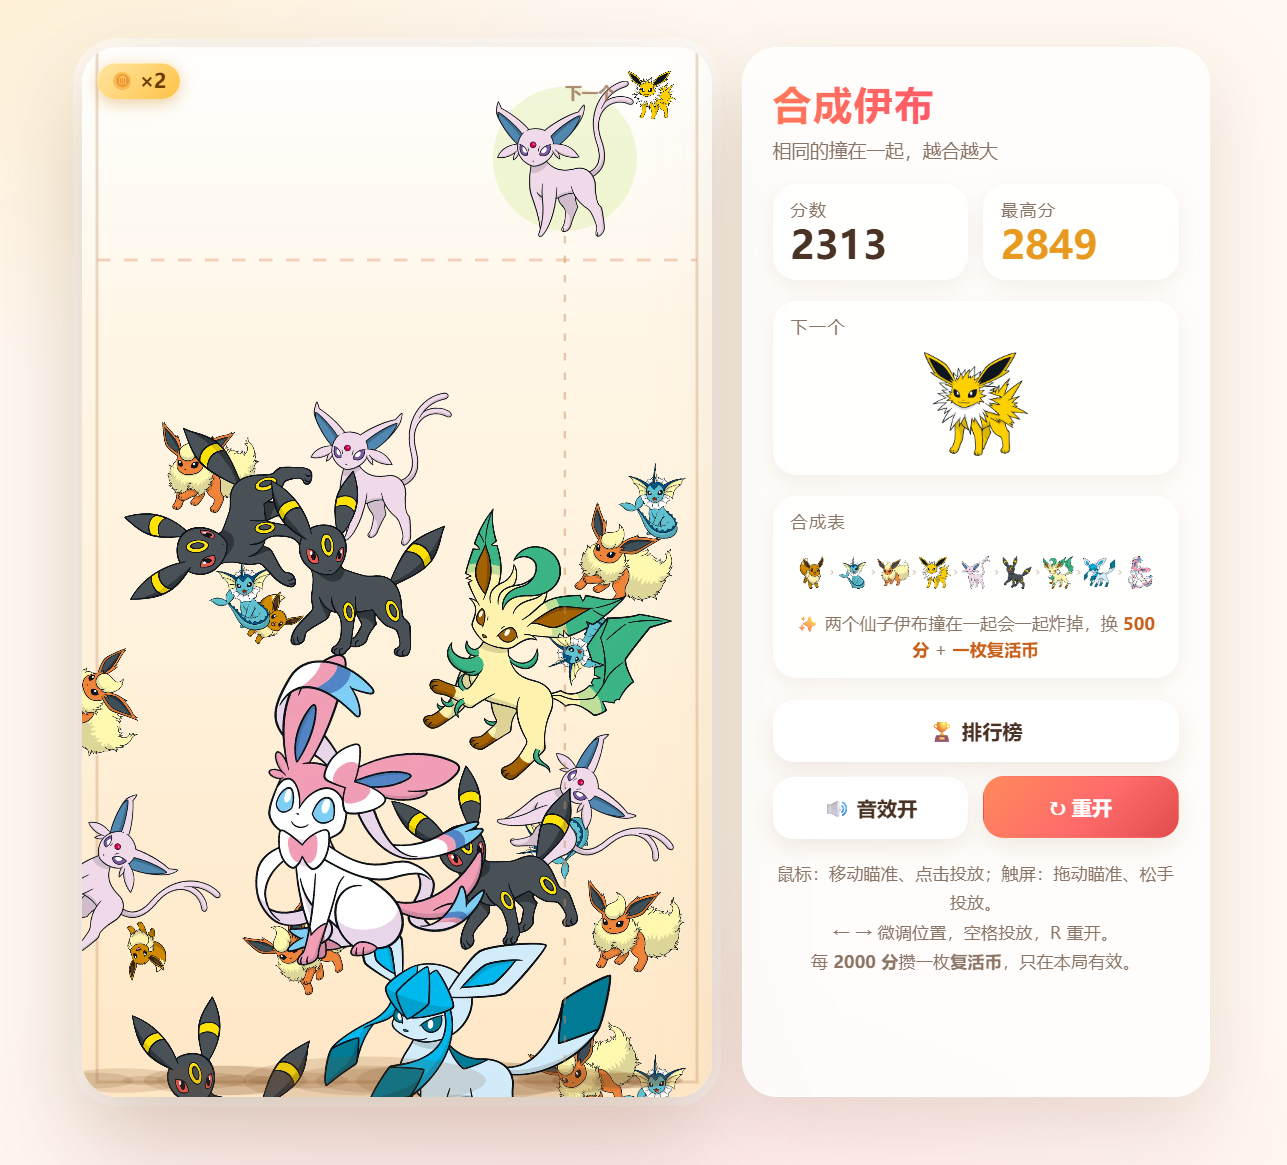
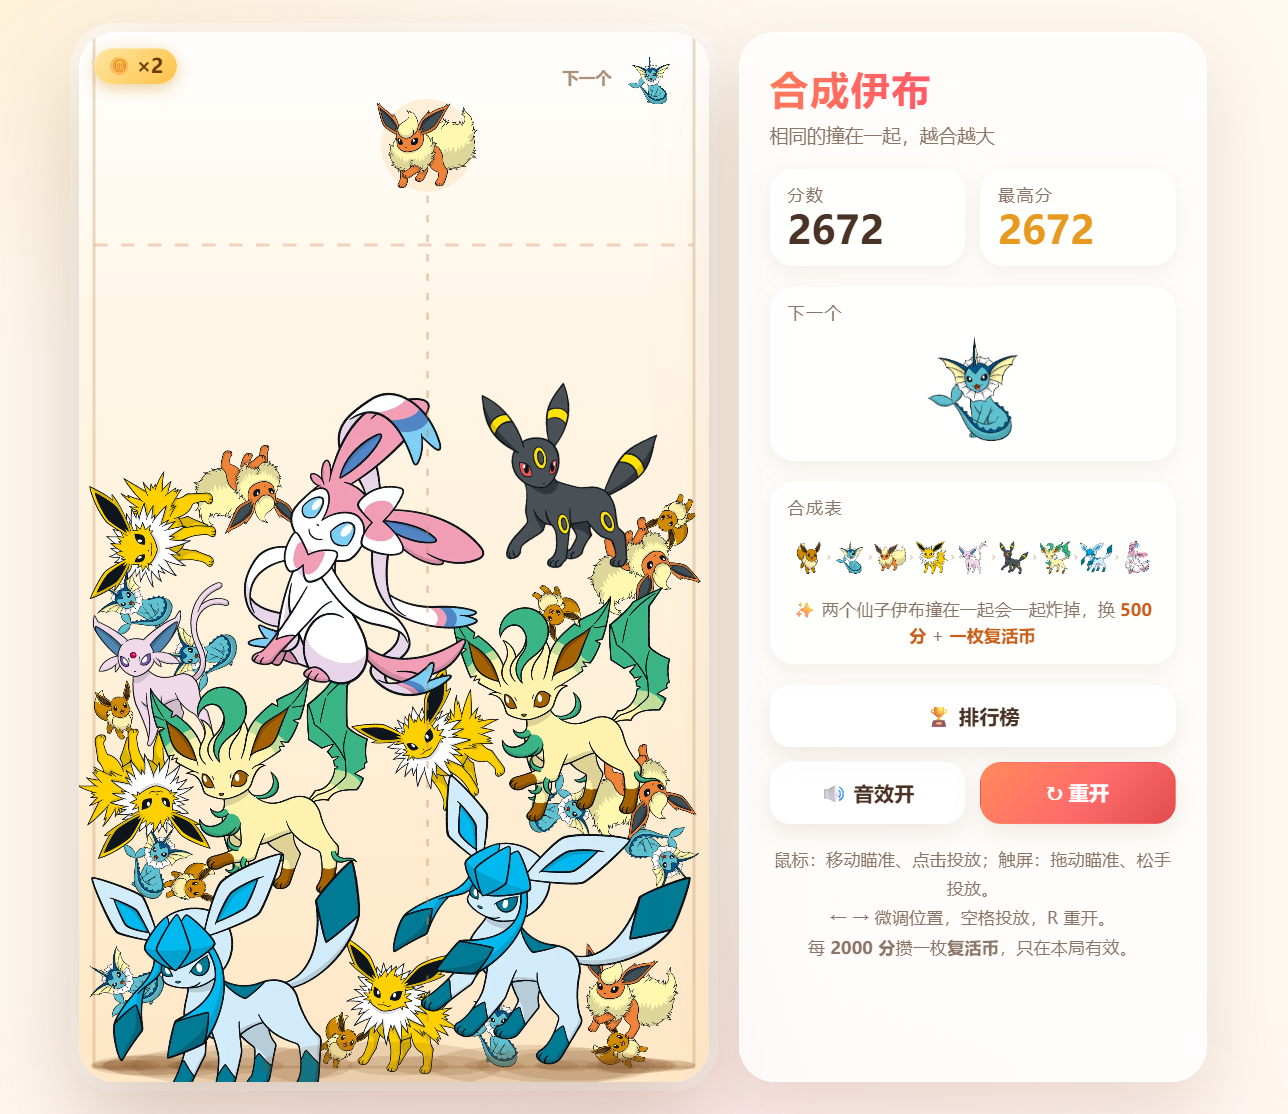
fix: 重新生成碰撞轮廓以适配伊布贴图
build_parts.py 改为读取带透明通道的 .webp，画布尺寸按实际图片计算（原 .png 无 alpha，导致轮廓被识别成整块白底矩形）；调参 --grid 2 --min-fill 0.8 --max-parts 22，IoU 从 0.35 提升到 0.73~0.92；同步重生成 blur.js，移除 drawFruit 里的调试日志，粒子色改为各伊布体色

diff --git a/assets/fruits/blur.js b/assets/fruits/blur.js
@@ -1,7 +1,7 @@
 /* 自动生成，别手改 —— 改缩略图请跑 tools/make_blur.py */
 /* 贴图还没到位时画的极模糊占位（内联 data URL，零额外请求） */
 window.FRUIT_BLUR = {
[2 lines of base64/hex data omitted]
   cell: 32,
   cols: 9
 };

diff --git a/assets/fruits/parts.js b/assets/fruits/parts.js
@@ -1,3 +1,3 @@
 /* 自动生成，请勿手改 —— 由 tools/build_parts.py 生成
    parts: [ox, oy, s]，单位是「以 r 为 1」；rb: 碰撞包围圆半径（同样以 r 为单位） */
-window.SUIKA_PARTS = [{"parts":[[-1.087,-1.087,0.287],[-0.577,-1.087,0.287],[-0.068,-1.087,0.287],[0.442,-1.087,0.287],[0.951,-1.087,0.287],[-1.087,-0.577,0.287],[-0.577,-0.577,0.287],[-0.068,-0.577,0.287],[0.442,-0.577,0.287]],"rb":1.825},{"parts":[[-1.087,-1.087,0.287],[-0.577,-1.087,0.287],[-0.068,-1.087,0.287],[0.442,-1.087,0.287],[0.951,-1.087,0.287],[-1.087,-0.577,0.287],[-0.577,-0.577,0.287],[-0.068,-0.577,0.287],[0.442,-0.577,0.287]],"rb":1.825},{"parts":[[-1.087,-1.087,0.287],[-0.577,-1.087,0.287],[-0.068,-1.087,0.287],[0.442,-1.087,0.287],[0.951,-1.087,0.287],[-1.087,-0.577,0.287],[-0.577,-0.577,0.287],[-0.068,-0.577,0.287],[0.442,-0.577,0.287]],"rb":1.825},{"parts":[[-1.087,-1.087,0.287],[-0.577,-1.087,0.287],[-0.068,-1.087,0.287],[0.442,-1.087,0.287],[0.951,-1.087,0.287],[-1.087,-0.577,0.287],[-0.577,-0.577,0.287],[-0.068,-0.577,0.287],[0.442,-0.577,0.287]],"rb":1.825},{"parts":[[-1.087,-1.087,0.287],[-0.577,-1.087,0.287],[-0.068,-1.087,0.287],[0.442,-1.087,0.287],[0.951,-1.087,0.287],[-1.087,-0.577,0.287],[-0.577,-0.577,0.287],[-0.068,-0.577,0.287],[0.442,-0.577,0.287]],"rb":1.825},{"parts":[[-1.087,-1.087,0.287],[-0.577,-1.087,0.287],[-0.068,-1.087,0.287],[0.442,-1.087,0.287],[0.951,-1.087,0.287],[-1.087,-0.577,0.287],[-0.577,-0.577,0.287],[-0.068,-0.577,0.287],[0.442,-0.577,0.287]],"rb":1.825},{"parts":[[-1.087,-1.087,0.287],[-0.577,-1.087,0.287],[-0.068,-1.087,0.287],[0.442,-1.087,0.287],[0.951,-1.087,0.287],[-1.087,-0.577,0.287],[-0.577,-0.577,0.287],[-0.068,-0.577,0.287],[0.442,-0.577,0.287]],"rb":1.825},{"parts":[[-1.087,-1.087,0.287],[-0.577,-1.087,0.287],[-0.068,-1.087,0.287],[0.442,-1.087,0.287],[0.951,-1.087,0.287],[-1.087,-0.577,0.287],[-0.577,-0.577,0.287],[-0.068,-0.577,0.287],[0.442,-0.577,0.287]],"rb":1.825},{"parts":[[-1.087,-1.087,0.287],[-0.577,-1.087,0.287],[-0.068,-1.087,0.287],[0.442,-1.087,0.287],[0.951,-1.087,0.287],[-1.087,-0.577,0.287],[-0.577,-0.577,0.287],[-0.068,-0.577,0.287],[0.442,-0.577,0.287]],"rb":1.825}];
+window.SUIKA_PARTS = [{"parts":[[0.025,0.054,0.538],[-0.409,-0.268,0.384],[0.225,0.554,0.219],[-0.446,-0.652,0.21],[-0.04,0.591,0.199],[-0.351,0.442,0.154],[0.399,-0.337,0.15],[0.58,-0.551,0.147],[0.649,-0.688,0.13],[-0.098,0.783,0.127],[0.293,0.768,0.12],[-0.083,0.909,0.112],[0.446,0.391,0.111],[0.333,0.884,0.11],[0.275,-0.424,0.109],[-0.442,0.569,0.105],[-0.377,-0.851,0.101],[0.688,-0.815,0.101],[0.533,-0.409,0.091],[-0.645,-0.572,0.089],[-0.029,1.007,0.084],[0.174,-0.467,0.083]],"rb":1.168},{"parts":[[0.109,-0.21,0.439],[0.348,0.681,0.41],[0.185,0.304,0.245],[0.504,-0.406,0.176],[-0.293,-0.395,0.151],[-0.333,0.069,0.128],[0.634,-0.525,0.127],[-0.645,0.243,0.12],[-0.42,-0.489,0.111],[-0.065,0.692,0.111],[0.743,-0.591,0.094],[-0.525,0.268,0.087],[-0.761,0.207,0.083],[-0.141,0.609,0.08],[-0.377,0.192,0.08],[-0.518,-0.551,0.079],[0.025,0.938,0.077],[-0.185,0.536,0.075],[0.725,0.844,0.074],[0.551,-0.236,0.07],[0.688,0.913,0.067],[-0.047,0.804,0.061]],"rb":1.21},{"parts":[[0.348,0.011,0.533],[-0.243,0.043,0.513],[0.054,-0.435,0.229],[0.804,-0.272,0.214],[-0.431,0.522,0.174],[-0.804,-0.504,0.164],[0.88,-0.011,0.149],[-0.341,-0.46,0.145],[0.185,-0.627,0.138],[0.866,0.138,0.12],[0.319,0.543,0.119],[-0.609,-0.319,0.117],[-0.105,0.54,0.117],[-0.909,-0.63,0.116],[-0.478,-0.413,0.108],[-0.634,0.377,0.108],[-0.721,-0.362,0.101],[0.319,0.667,0.097],[0.87,-0.478,0.096],[-0.529,0.808,0.096],[0.822,0.254,0.096],[-0.707,0.264,0.096]],"rb":1.223},{"parts":[[-0.025,0.076,0.503],[0.478,0.047,0.328],[-0.333,-0.322,0.285],[0.036,-0.424,0.209],[0.116,0.572,0.194],[0.442,-0.732,0.188],[0.442,0.373,0.185],[-0.728,-0.699,0.169],[0.286,-0.623,0.164],[-0.507,-0.072,0.157],[0.518,0.543,0.141],[0.58,-0.866,0.133],[0.105,0.768,0.13],[-0.145,-0.536,0.128],[-0.841,-0.83,0.128],[-0.605,-0.58,0.128],[-0.337,0.475,0.11],[0.598,0.663,0.099],[-0.348,0.587,0.094],[-0.931,-0.92,0.092],[-0.355,0.681,0.091],[0.076,0.899,0.091]],"rb":1.401},{"parts":[[-0.236,0.341,0.262],[-0.409,-0.167,0.26],[0.025,0.373,0.228],[0.246,0.315,0.178],[-0.283,0.601,0.159],[-0.178,-0.29,0.156],[0.29,0.489,0.147],[-0.058,-0.395,0.142],[-0.645,-0.373,0.137],[-0.351,0.105,0.13],[-0.75,-0.486,0.121],[0.058,-0.493,0.116],[-0.275,0.761,0.116],[0.054,0.601,0.109],[0.366,0.616,0.1],[-0.833,-0.576,0.094],[0.435,0.717,0.089],[-0.116,-0.145,0.086],[0.08,0.71,0.085],[-0.283,0.877,0.082],[0.152,-0.569,0.08],[-0.004,-0.116,0.08]],"rb":1.107},{"parts":[[-0.442,-0.221,0.279],[-0.268,0.283,0.276],[0.011,0.37,0.254],[0.243,0.475,0.178],[0.656,-0.069,0.161],[-0.431,0.058,0.159],[-0.801,-0.688,0.142],[0.536,0.043,0.135],[0.254,0.293,0.135],[-0.13,-0.757,0.134],[0.772,-0.185,0.132],[-0.721,-0.565,0.128],[0.315,0.641,0.121],[-0.159,-0.623,0.12],[-0.493,0.446,0.118],[-0.866,-0.819,0.109],[-0.217,0.554,0.104],[-0.558,0.547,0.099],[-0.091,-0.888,0.097],[0.011,0.627,0.096],[0.406,0.739,0.094],[0.435,0.134,0.093]],"rb":1.3},{"parts":[[-0.355,-0.228,0.322],[-0.174,0.341,0.268],[0.094,0.377,0.214],[0.33,0.319,0.206],[0.656,-0.659,0.199],[0.159,-0.587,0.192],[-0.072,-0.391,0.188],[-0.786,-0.496,0.173],[0.851,-0.319,0.161],[-0.659,-0.344,0.15],[-0.254,-0.536,0.148],[-0.264,0.083,0.143],[-0.239,0.601,0.142],[0.732,-0.475,0.141],[0.453,0.486,0.138],[0.301,-0.739,0.138],[-0.246,-0.79,0.132],[0.786,-0.033,0.126],[0.591,-0.471,0.123],[0.826,-0.159,0.12],[0.746,-0.837,0.118],[-0.344,-0.884,0.105]],"rb":1.239},{"parts":[[-0.341,-0.308,0.333],[-0.163,0.221,0.26],[0.094,0.268,0.228],[0.12,-0.692,0.21],[0.322,0.29,0.19],[-0.826,-0.674,0.184],[0.902,-0.522,0.183],[-0.431,0.391,0.164],[0.859,-0.341,0.159],[0.283,-0.83,0.138],[-0.04,-0.554,0.138],[0.438,0.442,0.128],[0.783,-0.199,0.124],[-0.928,0.261,0.123],[0.986,-0.685,0.114],[-0.942,-0.819,0.112],[-0.127,0.482,0.112],[-0.714,-0.525,0.105],[0.536,0.572,0.103],[-0.123,0.594,0.103],[1.08,-0.62,0.103],[0.156,0.525,0.096]],"rb":1.36},{"parts":[[-0.221,0.692,0.297],[-0.377,-0.051,0.29],[-0.348,-0.736,0.215],[-0.449,0.236,0.194],[-0.098,-0.138,0.19],[-0.351,0.424,0.181],[-0.196,-0.888,0.17],[0.312,-0.174,0.17],[0.033,0.848,0.164],[-0.38,-0.514,0.156],[0.094,-0.163,0.155],[0.482,-0.196,0.13],[0.54,0.783,0.129],[-0.428,0.906,0.118],[-0.449,-0.333,0.107],[0.362,0.754,0.098],[-0.091,0.96,0.098],[-0.094,-0.33,0.096],[0.601,0.301,0.086],[-0.188,-0.308,0.08],[0.685,0.272,0.08],[-0.025,-0.891,0.079]],"rb":1.12}];

diff --git a/game.js b/game.js
@@ -52,23 +52,23 @@
 
   const FRUITS = [
     { name: '伊布',   r: 17,  c1: '#c084f5', c2: '#7a3fb0', line: 'rgba(74,26,120,.35)',
-      file: 'assets/fruits/01-eevee.webp',     pc1: '#e9c466', pc2: '#b8903a' },
+      file: 'assets/fruits/01-eevee.webp',     pc1: '#e2ab34', pc2: '#674d14' },
     { name: '水伊布',   r: 23,  c1: '#ff8a99', c2: '#c62346', line: 'rgba(120,10,40,.35)',
-      file: 'assets/fruits/02-vaporeon.webp',    pc1: '#ffe684', pc2: '#d8b44f' },
+      file: 'assets/fruits/02-vaporeon.webp',    pc1: '#88d4d9', pc2: '#3d6164' },
     { name: '火伊布',   r: 31,  c1: '#ffc06a', c2: '#e0741a', line: 'rgba(140,62,0,.32)',
-      file: 'assets/fruits/03-flareon.webp',    pc1: '#fdd865', pc2: '#cfa63f' },
+      file: 'assets/fruits/03-flareon.webp',    pc1: '#ffd98c', pc2: '#796640' },
     { name: '雷伊布',   r: 39,  c1: '#fff285', c2: '#e0b000', line: 'rgba(140,110,0,.32)',
-      file: 'assets/fruits/04-jolteon.webp',     pc1: '#f6cd63', pc2: '#c9a040' },
+      file: 'assets/fruits/04-jolteon.webp',     pc1: '#f4d642', pc2: '#70611a' },
     { name: '太阳伊布', r: 48,  c1: '#b9e05a', c2: '#5d8c1c', line: 'rgba(60,90,10,.32)',
-      file: 'assets/fruits/05-espeon.webp',      pc1: '#c4a559', pc2: '#94793c' },
+      file: 'assets/fruits/05-espeon.webp',      pc1: '#fae8ff', pc2: '#736a75' },
     { name: '月亮伊布',   r: 58,  c1: '#ff8a66', c2: '#c62f28', line: 'rgba(120,20,10,.32)',
-      file: 'assets/fruits/06-umbreon.webp',    pc1: '#fbd75a', pc2: '#cba63c' },
+      file: 'assets/fruits/06-umbreon.webp',    pc1: '#656a59', pc2: '#2e3028' },
     { name: '叶伊布',   r: 69,  c1: '#ffd0d0', c2: '#ea7f93', line: 'rgba(160,60,80,.3)',
-      file: 'assets/fruits/07-leafeon.webp',     pc1: '#f7c45a', pc2: '#c99a3e' },
+      file: 'assets/fruits/07-leafeon.webp',     pc1: '#b8e297', pc2: '#536743' },
     { name: '冰伊布',   r: 81,  c1: '#ffe07a', c2: '#c88a12', line: 'rgba(130,80,0,.32)',
-      file: 'assets/fruits/08-glaceon.webp', pc1: '#ffd37b', pc2: '#d1a252' },
+      file: 'assets/fruits/08-glaceon.webp', pc1: '#76d6f4', pc2: '#336170' },
     { name: '仙子伊布',   r: 94,  c1: '#f0e2c6', c2: '#9b7b4f', line: 'rgba(90,64,32,.35)',
-      file: 'assets/fruits/09-sylveon.webp',   pc1: '#ffd771', pc2: '#d3a94e' }
+      file: 'assets/fruits/09-sylveon.webp',   pc1: '#fae0f6', pc2: '#736671' }
 
   ];
 
@@ -827,7 +827,6 @@
 
     /* —— 贴图模式：主体直接画 PNG，画布边长按 ASSET_FILL 换算，保证视觉大小 = 物理直径 —— */
     if (f.img) {
-      console.log("图片加载成功：", f.name);
       const box = (r * 2) / ASSET_FILL;
       c.drawImage(f.img, -box / 2, -box / 2, box, box);
       c.restore();

diff --git a/tools/build_parts.py b/tools/build_parts.py
@@ -36,16 +36,20 @@ TIERS = [
     "sylveon"
 ]
 
-CANVAS = 512
-FILL = 0.92                      # 与 normalize_assets.py 保持一致
+CANVAS = 512                      # 仅作默认值，实际以读到的图片尺寸为准
+FILL = 0.92                      # 与 normalize_assets.py / game.js ASSET_FILL 保持一致
 SCALE = CANVAS * FILL / 2.0      # 画布像素 → r 单位的换算系数
 
 
 def find_sprite(i):
-    p = os.path.join(OUT, "%02d-%s.png" % (i, TIERS[i - 1]))
-    print("查找：", p)
-    print("是否存在：", os.path.exists(p))
-    return p if os.path.exists(p) else None
+    # 游戏实际加载的是 .webp（带透明通道）；.png 多半是无透明的白底图，不能用来算轮廓
+    for ext in (".webp", ".png"):
+        p = os.path.join(OUT, "%02d-%s%s" % (i, TIERS[i - 1], ext))
+        print("查找：", p)
+        print("是否存在：", os.path.exists(p))
+        if os.path.exists(p):
+            return p
+    return None
 
 
 def euclid_dt(mask):
@@ -185,6 +189,9 @@ def fill_gaps(mask, dt, circles, budget, min_r, target=0.97):
 def build(i, grid, min_fill, max_parts):
     path = find_sprite(i)
     im = Image.open(path).convert("RGBA")
+    global CANVAS, SCALE
+    CANVAS = im.size[0]                      # 画布尺寸以实际贴图为准（webp 是 600x600）
+    SCALE = CANVAS * FILL / 2.0
     alpha = np.asarray(im)[:, :, 3]
     mask = alpha > 128
 

diff --git a/tools/normalize_assets.py b/tools/normalize_assets.py
@@ -24,9 +24,19 @@ SIZE = 512            # 输出画布边长
 FILL = 0.92           # 主体最长边占画布比例
 MAX_ITER = 4000
 
-TIERS = ["grape", "cherry", "orange", "lemon", "kiwi",
-         "tomato", "peach", "pineapple", "coconut", "halfmelon", "watermelon"]
-
+TIERS = [
+    "eevee",
+    "vaporeon",
+    "jolteon",
+    "flareon",
+    "espeon",
+    "umbreon",
+    "leafeon",
+    "glaceon",
+    "sylveon",
+    "xxxxx",
+    "xxxxx"
+]
 # 每张图的抠底参数：tol = 相邻像素色差阈值
 #   浅色背景 → 用饱和度闸门 sat_max（更高饱和度的像素不许当背景）
 #   深色背景 → 用亮度闸门   lum_min（更亮的像素不许当背景）
